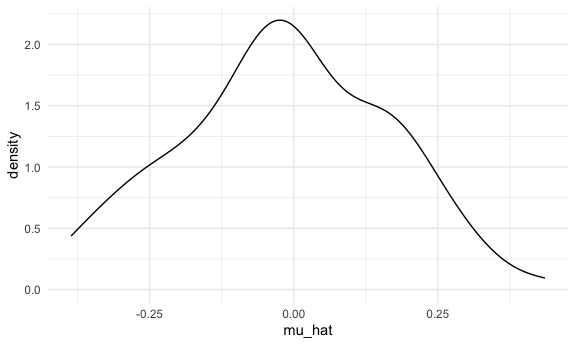
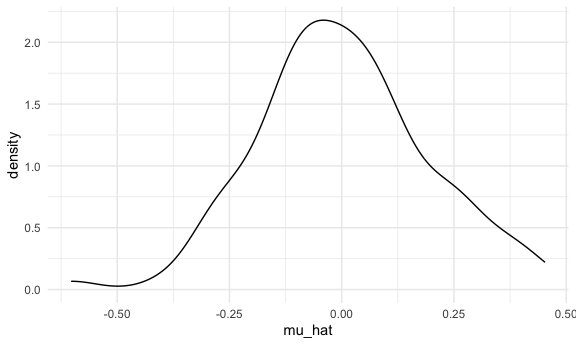
update

diff --git a/simulation.md b/simulation.md
@@ -25,7 +25,7 @@ sim_mean_sd(n_subj=400)
     ## # A tibble: 1 × 2
     ##   mu_hat sigma_hat
     ##    <dbl>     <dbl>
-    ## 1 0.0128     0.975
+    ## 1 0.0350     0.999
 
 ``` r
 output=vector("list", length=100)
@@ -81,12 +81,12 @@ sim_results_df |>
 ```
 
     ## # A tibble: 4 × 3
-    ##   sample_size  emp_mean emp_se
-    ##         <dbl>     <dbl>  <dbl>
-    ## 1          30 -0.00356  0.187 
-    ## 2          60  0.000316 0.126 
-    ## 3          90 -0.00333  0.113 
-    ## 4         120  0.00492  0.0897
+    ##   sample_size emp_mean emp_se
+    ##         <dbl>    <dbl>  <dbl>
+    ## 1          30  0.00794 0.189 
+    ## 2          60  0.00313 0.130 
+    ## 3          90  0.00108 0.110 
+    ## 4         120  0.00321 0.0897
 
 simple linear regression模拟一份简单线性回归
 
@@ -100,18 +100,18 @@ sim_df
 ```
 
     ## # A tibble: 30 × 2
-    ##          x      y
-    ##      <dbl>  <dbl>
-    ##  1  2.04    7.16 
-    ##  2  0.213   3.98 
-    ##  3  1.56    6.36 
-    ##  4 -1.06   -1.20 
-    ##  5  0.785   5.62 
-    ##  6  2.06    9.74 
-    ##  7 -0.277   1.19 
-    ##  8  0.155   2.78 
-    ##  9  2.14   10.1  
-    ## 10  0.0456 -0.806
+    ##          x     y
+    ##      <dbl> <dbl>
+    ##  1  0.531  2.09 
+    ##  2  0.239  2.89 
+    ##  3  2.52   9.39 
+    ##  4 -0.0625 0.819
+    ##  5  1.06   6.01 
+    ##  6 -0.187  1.93 
+    ##  7  1.32   6.20 
+    ##  8  1.13   4.82 
+    ##  9  1.23   5.38 
+    ## 10 -0.138  1.81 
     ## # ℹ 20 more rows
 
 生成的数据关系
@@ -130,7 +130,7 @@ coef(slr_fit)#coef输出估计的beta0 and beta1
 ```
 
     ## (Intercept)           x 
-    ##    1.565912    3.544752
+    ##    1.820619    3.108336
 
 模拟封装成一个函数sim_regression()
 
@@ -159,7 +159,9 @@ sim_regression(n_subj=30)
     ## # A tibble: 1 × 2
     ##   beta0_hat beta1_hat
     ##       <dbl>     <dbl>
-    ## 1      1.32      3.43
+    ## 1      1.30      3.25
+
+## 用for-loop重复模拟500次
 
 ``` r
 output=vector("list", length=500)
@@ -174,14 +176,36 @@ output |>
     ## # A tibble: 500 × 1
     ##    `(Intercept)`
     ##            <dbl>
-    ##  1         1.49 
-    ##  2         0.818
-    ##  3         1.64 
-    ##  4         1.75 
-    ##  5         1.73 
-    ##  6         1.73 
-    ##  7         1.77 
-    ##  8         1.55 
-    ##  9         1.49 
-    ## 10         1.45 
+    ##  1          1.16
+    ##  2          1.62
+    ##  3          1.31
+    ##  4          2.08
+    ##  5          1.18
+    ##  6          1.27
+    ##  7          1.74
+    ##  8          1.57
+    ##  9          1.27
+    ## 10          1.68
     ## # ℹ 490 more rows
+
+## 用expand_grid+map
+
+``` r
+slr_sim_results_df=
+  expand_grid(
+    sample_size=30,
+    iter=1:500
+  ) |>
+  mutate(
+    results=map(sample_size,sim_regression)
+  ) |>
+  unnest(results)
+```
+
+``` r
+slr_sim_results_df |>
+  ggplot(aes(x=beta0_hat, y=beta1_hat))+
+  geom_point()
+```
+
+<img src="simulation_files/figure-gfm/unnamed-chunk-15-1.png" width="90%" />
